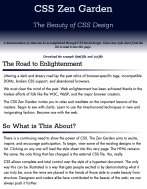
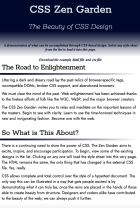
updated css file updated image

diff --git a/styles.css b/styles.css
@@ -174,19 +174,21 @@ header h2 {
 
 /*--section styles--*/
 section article{
-	padding: 0 15px 25px 15px;
+	padding: 0 15px 25px 0;
 }
 
 article h3{
 	font-family: var(--font-heading);
 	font-weight: 400;
 	font-size: var(--fs-600);
+	text-indent: 10px;
 }
 
 article p{
 	padding: 5px;
 	line-height: 1.7;
 	font: var(--fs-200) var(--font-main);
+	padding-left: 10px;
 }
 
 article p:nth-child(2){
